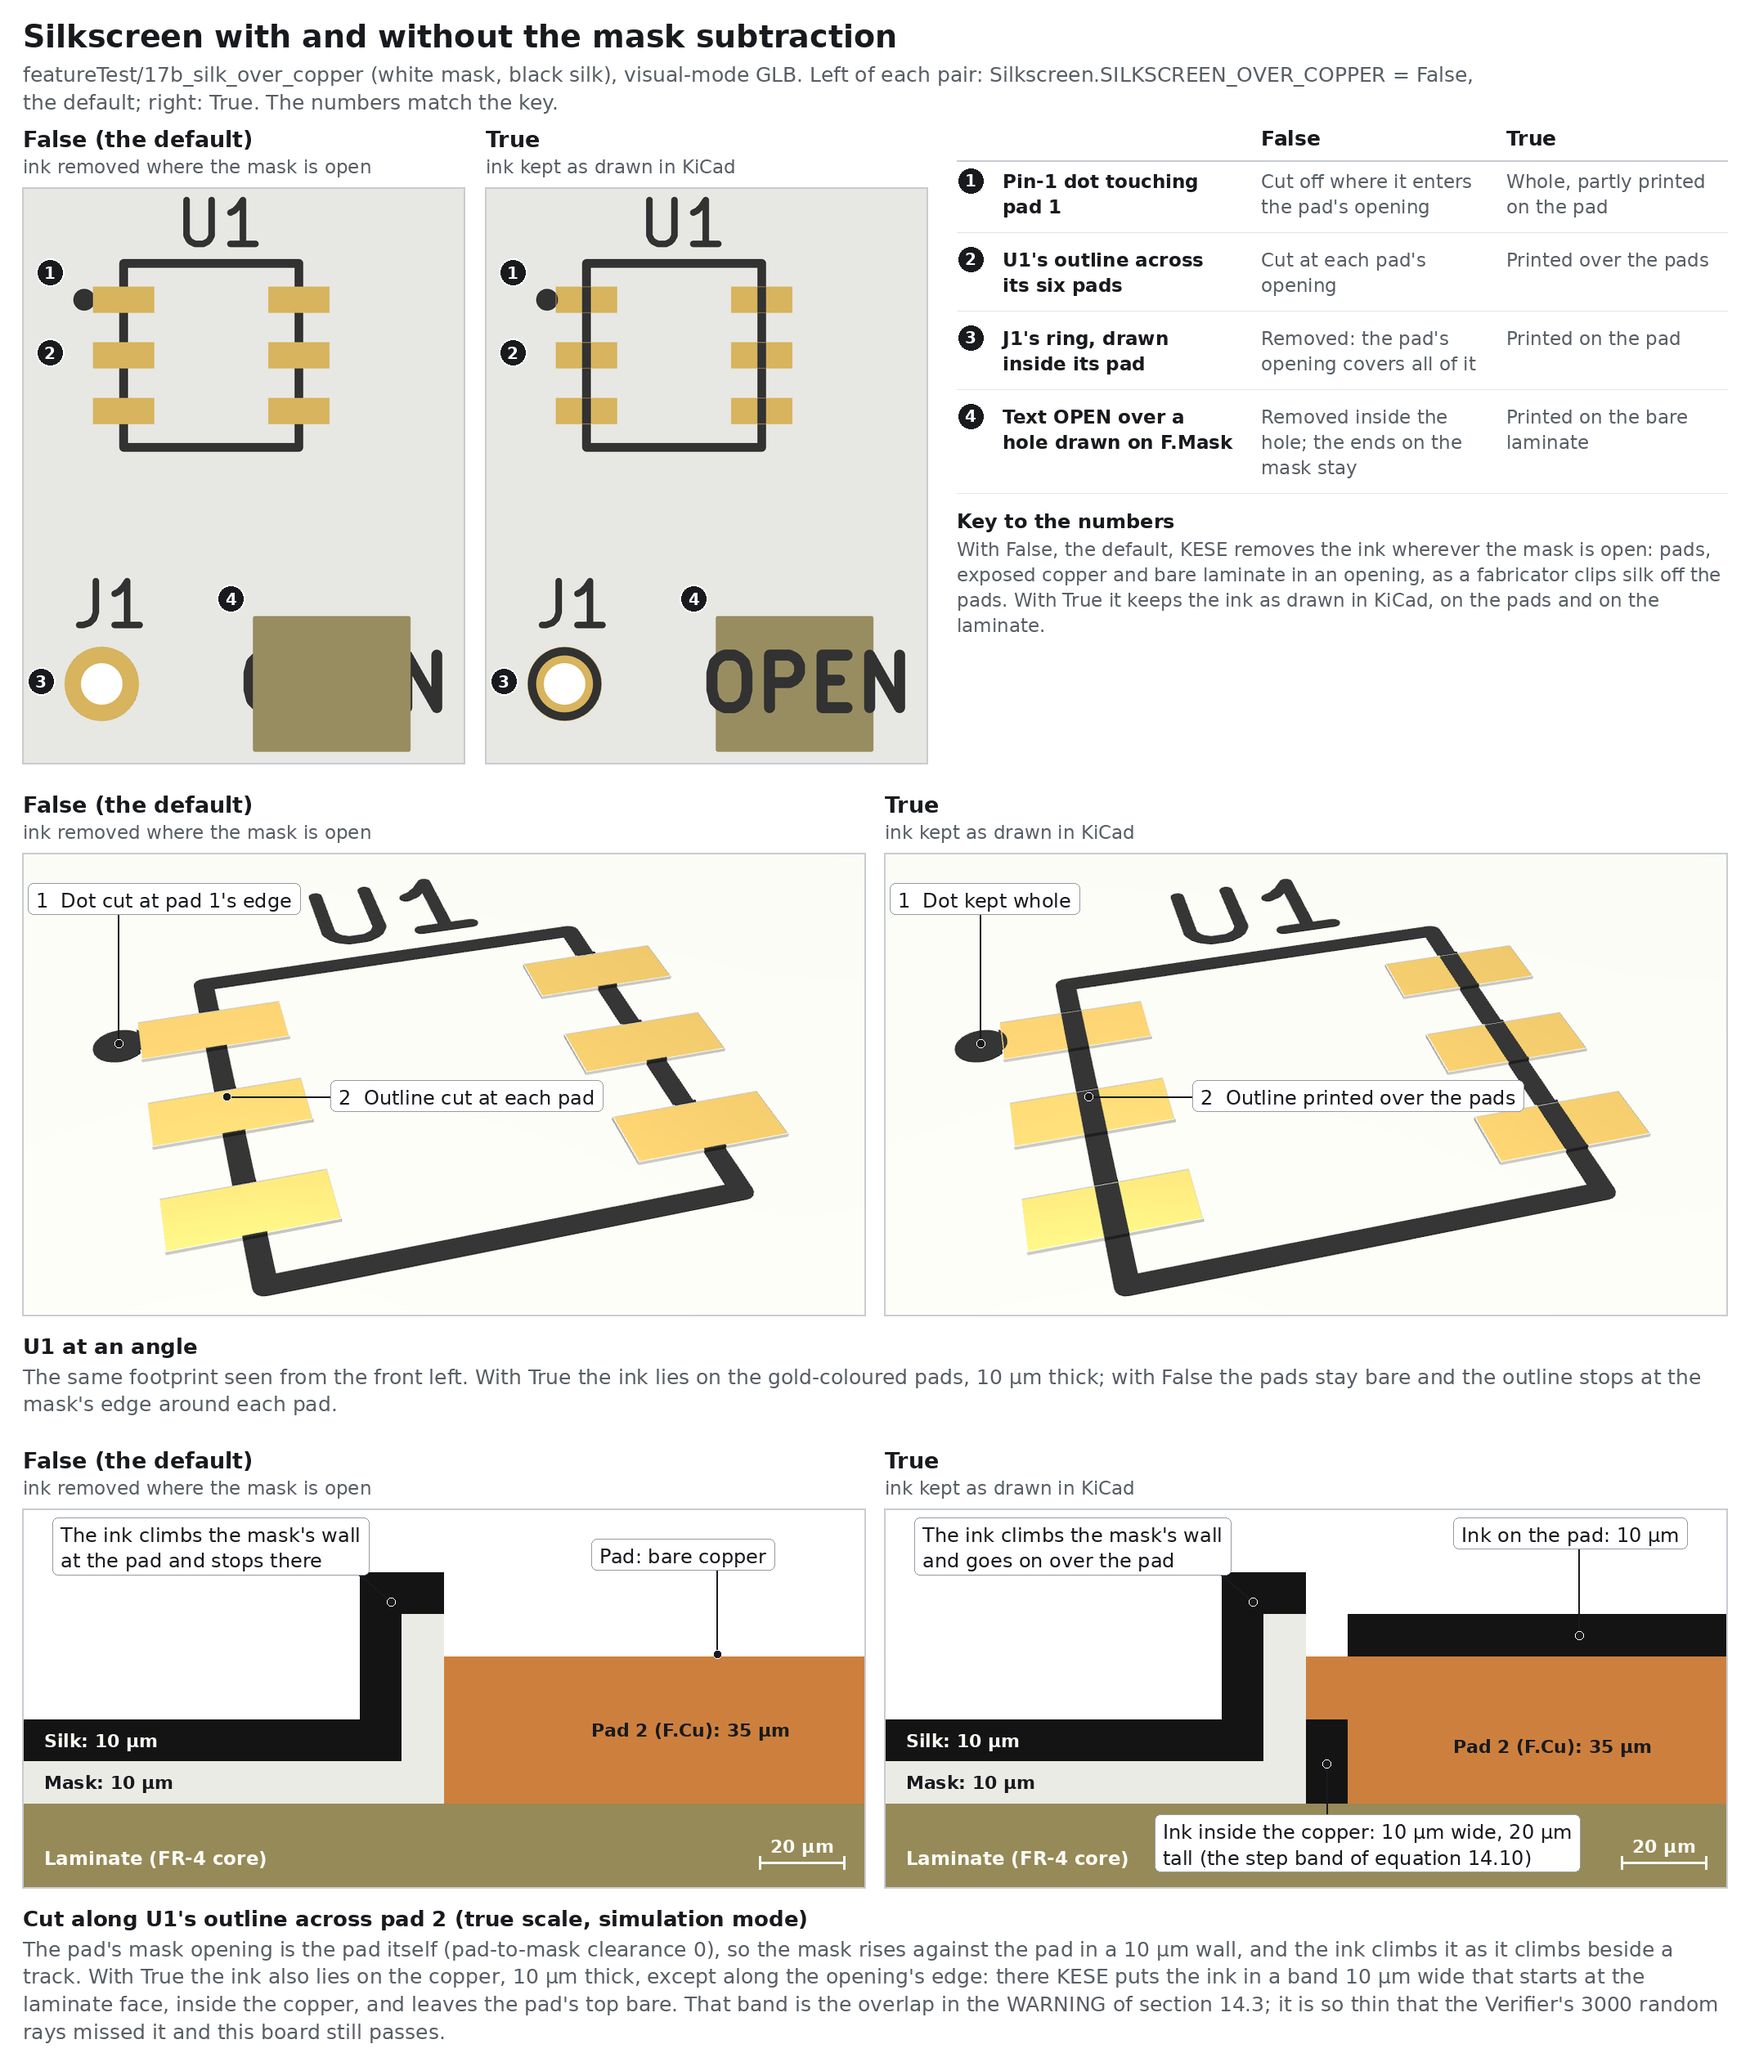
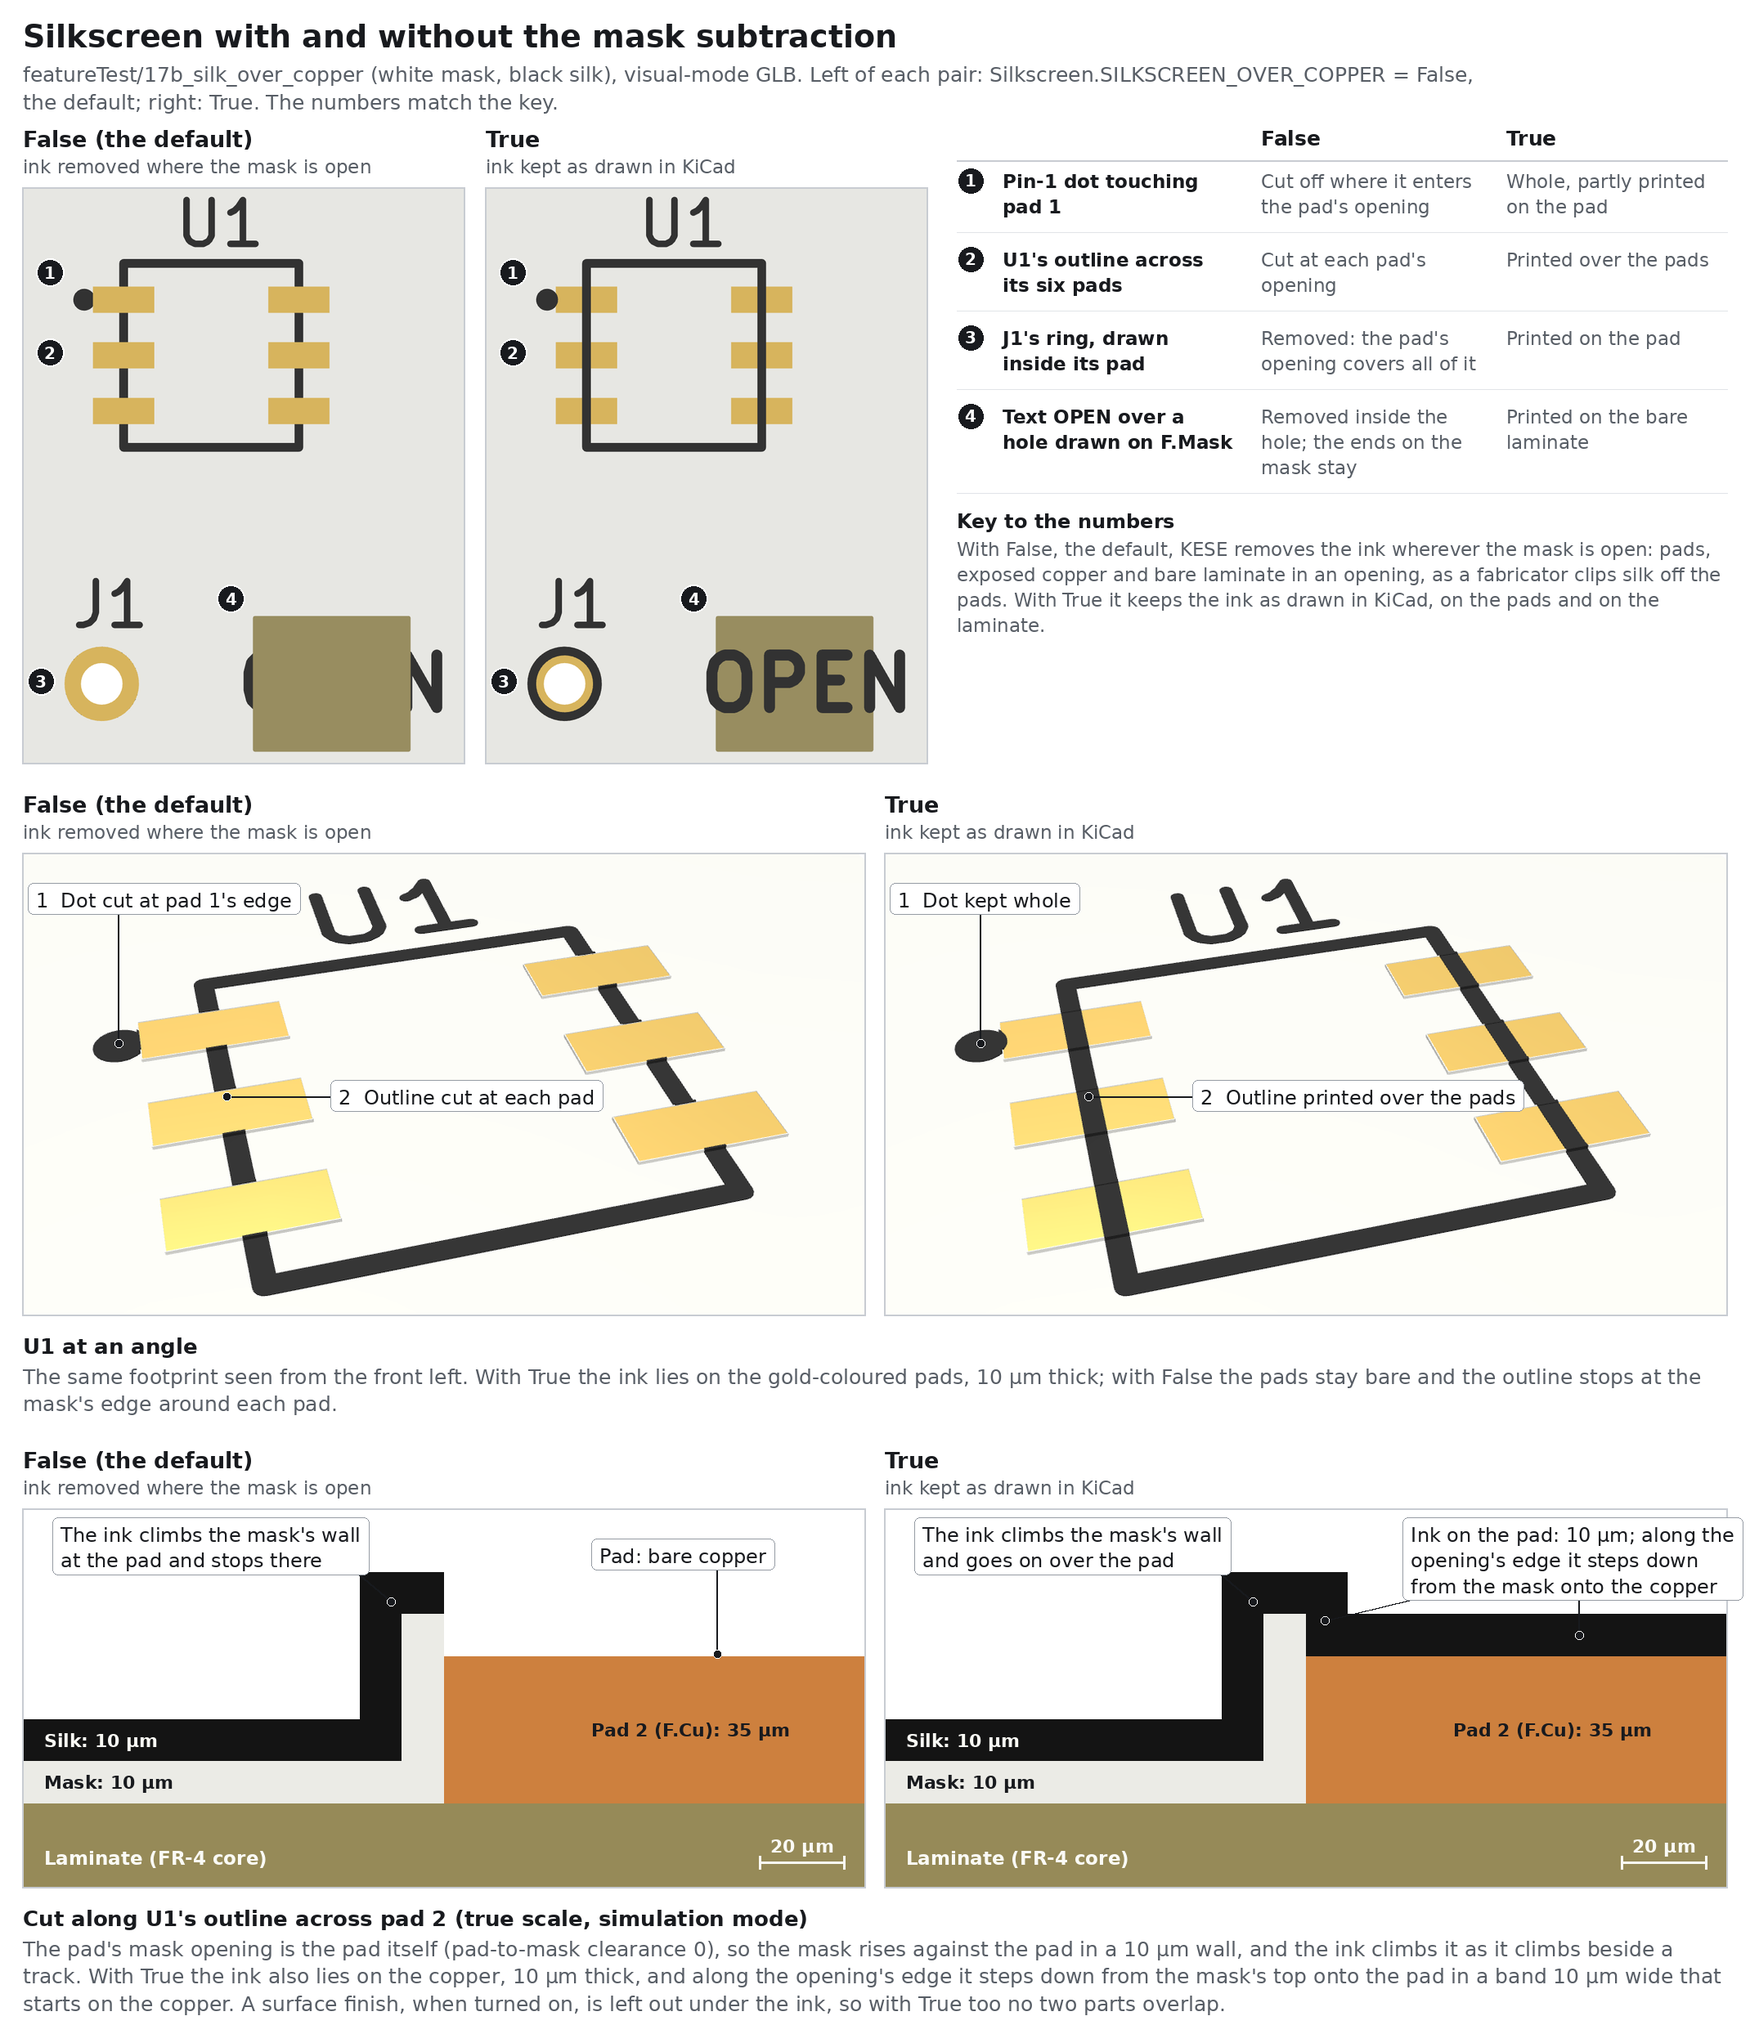
Keep silkscreen ink in mask openings out of the copper and the finish
With Silkscreen.SILKSCREEN_OVER_COPPER = True the ink stepping down the edge of a
mask opening started at the laminate face even over copper, so it lay 20 um inside
the pad, and the ink on bare copper sat inside any surface finish. The step now
starts on the copper (or the laminate) under it and rises to the ink on the mask
beside it, and the finish is left out under kept ink, as when the legend is printed
before the finish. On featureTest/17b with both settings on, no two prisms overlap
any more (7 overlaps before). The default path is unchanged.

The silk mask-subtraction picture is redone, and the wiki no longer lists silk over
copper as an exception to parts never overlapping.

diff --git a/Generator/kese/s4_geometry/silkscreen.py b/Generator/kese/s4_geometry/silkscreen.py
@@ -21,12 +21,17 @@ def build(r, ps):
         props = {"side": side, "thickness_mm": t_silk}
         z = lambda v: sign * v
         masked = r.mask[side]
-        # where the ink leaves the mask (openings that keep their silk) it steps down the mask edge
-        off_mask, on_mask, step = conformal_regions(silk, masked, t_silk, M.MASK_WALL_QUAD_SEGS, around="region")
-        ps.add(part, "silk", step, z(base), z(base + t_lam + t_silk), layer=f"{side}.SilkS", props=props)
-        # on the mask: the mask's surface is flat on laminate and raised over copper and the mask's
-        # own wall beside it; the ink climbs that step with a wall of its own, t_silk wide
+        # the mask's surface is flat on laminate and raised over copper and the mask's own wall beside it
         raised = grow(cu, t_lam, M.MASK_WALL_QUAD_SEGS) if not cu.is_empty else cu
+        # where the ink leaves the mask (openings that keep their silk) it steps down the mask edge,
+        # from the mask's surface beside it down to the copper or the laminate under it
+        off_mask, on_mask, step = conformal_regions(silk, masked, t_silk, M.MASK_WALL_QUAD_SEGS, around="region")
+        step_cu, step_off = sh.inter(step, cu), sh.diff(step, cu)
+        step_raised, step_flat = sh.inter(step_off, raised), sh.diff(step_off, raised)
+        ps.add(part, "silk", step_cu, z(base + cu_t), z(base + cu_t + t_cu + t_silk), layer=f"{side}.SilkS", props=props)
+        ps.add(part, "silk", step_raised, z(base), z(base + cu_t + t_cu + t_silk), layer=f"{side}.SilkS", props=props)
+        ps.add(part, "silk", step_flat, z(base), z(base + t_lam + t_silk), layer=f"{side}.SilkS", props=props)
+        # on the mask: the ink climbs the mask's raised surface with a wall of its own, t_silk wide
         flat, top, wall = conformal_regions(on_mask, raised, t_silk, M.MASK_WALL_QUAD_SEGS, around="region")
         ps.add(part, "silk", flat, z(base + t_lam), z(base + t_lam + t_silk), layer=f"{side}.SilkS", props=props)
         ps.add(part, "silk", top, z(base + cu_t + t_cu), z(base + cu_t + t_cu + t_silk), layer=f"{side}.SilkS", props=props)

diff --git a/Generator/kese/s4_geometry/finish.py b/Generator/kese/s4_geometry/finish.py
@@ -31,10 +31,14 @@ def build(r, ps):
         return
     ps.notes.append(f"finish: {kind} " + " + ".join(f"{m} {t} mm" for m, t in layers))
     for side, layer, sign, tb in (("F", "F.Cu", 1, "Top"), ("B", "B.Cu", -1, "Bottom")):
+        # ink kept in the openings (SILKSCREEN_OVER_COPPER) is printed before the finish and keeps it off
+        inked = r.silk.get(side, sh.EMPTY) if P.Silkscreen.SILKSCREEN_OVER_COPPER else sh.EMPTY
         # one part per metal and side, or per metal and net (FINISH_GROUPING = "net")
         groups = r.copper[layer].items() if F.FINISH_GROUPING == "net" else [(None, r.copper_all.get(layer, sh.EMPTY))]
         for net, cu in groups:
             exposed = sh.inter(cu, r.mask_open[side])
+            if not inked.is_empty:
+                exposed = sh.diff(exposed, inked)
             if exposed.is_empty:
                 continue
             z = abs(st.band[layer][1] if sign > 0 else st.band[layer][0])

diff --git a/docs/wiki/Silkscreens.md b/docs/wiki/Silkscreens.md
@@ -148,20 +148,21 @@ On the `F` side, with $`h = L/2`$ the laminate face, these are extruded over:
 | $`S^{\mathrm{flat}}`$ | $`[h + m_L,\ h + m_L + s]`$ | on the mask over laminate |
 | $`S^{\mathrm{top}}`$ | $`[h + t + m_C,\ h + t + m_C + s]`$ | on the mask over copper |
 | $`S^{\mathrm{wall}}`$ | $`[h + m_L,\ h + t + m_C + s]`$ | climbing the mask step beside a trace |
-| $`S^{\mathrm{step}}`$ | $`[h,\ h + m_L + s]`$ | stepping down the edge of a mask opening |
+| $`S^{\mathrm{step}} \cap C`$ | $`[h + t,\ h + t + m_C + s]`$ | stepping down the edge of a mask opening onto copper |
+| $`(S^{\mathrm{step}} \setminus C) \cap K`$ | $`[h,\ h + t + m_C + s]`$ | stepping down to the laminate from the raised mask beside copper |
+| $`S^{\mathrm{step}} \setminus K`$ | $`[h,\ h + m_L + s]`$ | stepping down the edge of a mask opening onto the laminate |
 | $`S^{\mathrm{off}} \setminus C`$ | $`[h,\ h + s]`$ | on bare laminate in an opening |
 | $`S^{\mathrm{off}} \cap C`$ | $`[h + t,\ h + t + s]`$ | on bare copper in an opening |
 
-The last three exist only with `SILKSCREEN_OVER_COPPER = True`; otherwise the ink was already
-removed from every opening. On the `B` side every z is mirrored.
+The last five exist only with `SILKSCREEN_OVER_COPPER = True`; otherwise the ink was already
+removed from every opening. On the `B` side every z is mirrored. Each piece of the step starts on
+what lies under it, the copper or the laminate, and rises to the top of the ink on the mask beside
+it.
 
-> [!WARNING]
-> With `SILKSCREEN_OVER_COPPER = True` the ink can overlap other parts. $`S^{\mathrm{step}}`$
-> starts at the laminate face even where the opening's edge lies on copper, so it overlaps the
-> copper by $`m_L + s`$ (20 µm by default); that band is only $`s`$ wide, so the Verifier's random
-> rays usually miss it and the run can still PASS. $`S^{\mathrm{off}} \cap C`$ sits directly on the
-> copper, inside any surface finish there: with `Finish.FINISH_ENABLED = True` the Verifier reports
-> an overlap (5 µm with ENIG, the nickel layer). Use it for viewing, not for simulation.
+> [!NOTE]
+> With `SILKSCREEN_OVER_COPPER = True` the ink in an opening lies on the bare copper, and a
+> surface finish (`Finish.FINISH_ENABLED = True`) is left out under it, as when the legend is
+> printed before the finish. So the ink overlaps no other part with either setting.
 
 | Symbol | Meaning | Parameter |
 |---|---|---|
@@ -180,7 +181,7 @@ in `materials.json`.
 | Name | Default | Range | Meaning |
 |---|---|---|---|
 | `SILK_THICKNESS_MM` | `0.010` | mm > 0 | Ink thickness (typical 0.010 to 0.020) |
-| `SILKSCREEN_OVER_COPPER` | `False` | bool | Keep ink where the mask is open (for viewing only: it can overlap the copper and finish) |
+| `SILKSCREEN_OVER_COPPER` | `False` | bool | Keep ink where the mask is open, on the pads and the bare laminate (the finish is left out under it); `False` clips it off as fabricators do |
 | `FONT_FILE` | `None` | None or a file name in `kese/assets/fonts/` | Custom font; `None` = KiCad newstroke |
 | `DRAW_TRUETYPE_TEXT_WITH_STROKE_FONT` | `True` | bool | Draw TrueType-face text with the stroke font |
 | `INTERLINE_PITCH`, `INTERLINE_LEGACY_FACTOR` | `1.68`, `0.9583` | > 0 | KiCad's line pitch and stroke-font correction |

diff --git a/docs/wiki/Copper-Finishings.md b/docs/wiki/Copper-Finishings.md
@@ -16,11 +16,13 @@ copper; it never changes the copper itself.
 
 On each side, the finish covers **exposed copper**: the copper of the outer layer intersected
 with the mask openings of that side (pads with their pad-to-mask clearance, drawn openings,
-untented vias). Copper under the mask gets no finish. The finish layers are stacked from the top
+untented vias). Copper under the mask gets no finish, nor does copper under silkscreen ink kept
+in an opening (`Silkscreen.SILKSCREEN_OVER_COPPER = True`): the legend is taken as printed
+before the finish. The finish layers are stacked from the top
 of the outer copper outward, in the order the finish type lists them, each one its own solid:
 
 ```math
-X_\sigma = C_\sigma \cap Q_\sigma \qquad (13.1)
+X_\sigma = \left( C_\sigma \cap Q_\sigma \right) \setminus S_\sigma \qquad (13.1)
 ```
 
 ```math
@@ -34,6 +36,7 @@ On the `B` side every z is mirrored.
 | $`X_\sigma`$ | exposed copper of side $`\sigma`$ (per net with `FINISH_GROUPING = "net"`) | |
 | $`C_\sigma`$ | outer copper of side $`\sigma`$ | |
 | $`Q_\sigma`$ | mask openings of side $`\sigma`$, equation (15.2) | |
+| $`S_\sigma`$ | silkscreen ink of side $`\sigma`$ kept in the openings; empty unless `SILKSCREEN_OVER_COPPER = True` | `Silkscreen.SILKSCREEN_OVER_COPPER` |
 | $`z_j`$ | z range of finish layer $`j`$ ($`j = 1`$ is the layer on the copper) | |
 | $`\tau_i`$ | thickness of finish layer $`i`$ | `Finish.FINISH_TYPES` |
 | $`L`$, $`t_{\mathrm{out}}`$ | laminate thickness and finished outer copper, equations (7.1) and (7.3) | |

diff --git a/docs/wiki/Working-Principle.md b/docs/wiki/Working-Principle.md
@@ -52,10 +52,8 @@ parts[off] = shapely.set_precision(parts[off], grid())      # Geometry.SNAP_GRID
 - Where a region would pinch to a point (two pieces touching at one vertex), a disc of
   `Geometry.PINCH_POINT_OPENING_MM` is cut out of the smaller piece so that the solid can close
   (`kese/core/pinches.py`). Those vertices sit just off the grid.
-- Two known exceptions, where parts can overlap or leave a gap: silkscreen kept in mask openings
-  (`Silkscreen.SILKSCREEN_OVER_COPPER = True`, see [Silkscreens](Silkscreens.md)) and the wedge
-  beside a sloped copper wall (`Copper.ETCH_FACTOR > 0`, see
-  [Copper And Traces](Copper-And-Traces.md#115-etch-factor)).
+- One known exception, where parts can overlap or leave a gap: the wedge beside a sloped copper
+  wall (`Copper.ETCH_FACTOR > 0`, see [Copper And Traces](Copper-And-Traces.md#115-etch-factor)).
 - The price: curves are polygons, in the meshes and in the STEP file alike. Only the older
   OpenCascade path (`Run.BUILD_WITH_KERNELS = True`) writes true circles back into STEP.
 

diff --git a/docs/wiki/Parameter-Reference.md b/docs/wiki/Parameter-Reference.md
@@ -160,7 +160,7 @@ Details in [Silkscreens](Silkscreens.md).
 | Name | Default | Range | Meaning |
 |---|---|---|---|
 | `SILK_THICKNESS_MM` | `0.010` | mm > 0 | Ink thickness (typical 0.010 to 0.020) |
-| `SILKSCREEN_OVER_COPPER` | `False` | bool | Keep ink where the mask is open; `False` clips it off the pads as fabricators do. `True` can overlap the copper and finish, so it is for viewing only |
+| `SILKSCREEN_OVER_COPPER` | `False` | bool | Keep ink where the mask is open; `False` clips it off the pads as fabricators do. With `True` the ink lies on the copper and the finish is left out under it |
 | `FONT_FILE` | `None` | None or a file in `kese/assets/fonts/` | Custom stroke-font JSON or Hershey `.jhf`; `None` = KiCad newstroke |
 | `DRAW_TRUETYPE_TEXT_WITH_STROKE_FONT` | `True` | bool | Text in a TrueType face is drawn with the stroke font |
 | `INTERLINE_PITCH` | `1.68` | > 0 | Line pitch as a multiple of the text height (KiCad's value) |

diff --git a/docs/wiki/Output-Modes.md b/docs/wiki/Output-Modes.md
@@ -13,7 +13,7 @@ layers and vias joined into one body, via and hole plating, solder mask conforma
 silkscreen and, if enabled, the surface finish.
 
 - Parts touch exactly (shared vertices, exact z values) and do not overlap, apart from the known
-  exceptions listed in
+  exception listed in
   [Working Principle](Working-Principle.md#61-the-design-choice-that-matters-most); the Verifier
   checks that every part is closed, that its volume adds up and that no two parts overlap.
 - All four formats are allowed: GLB, STEP, STL, OBJ.
